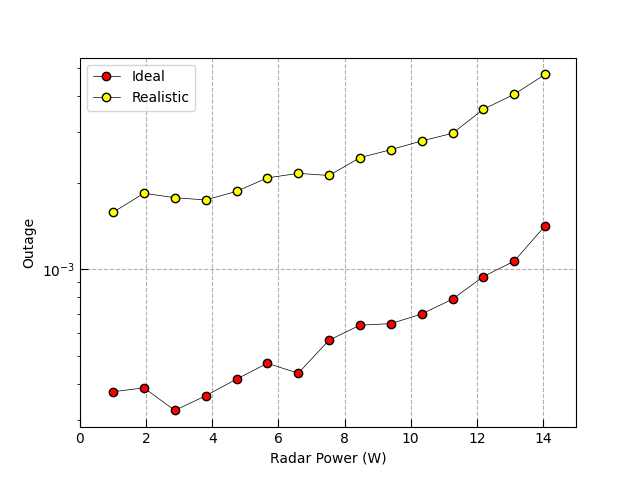
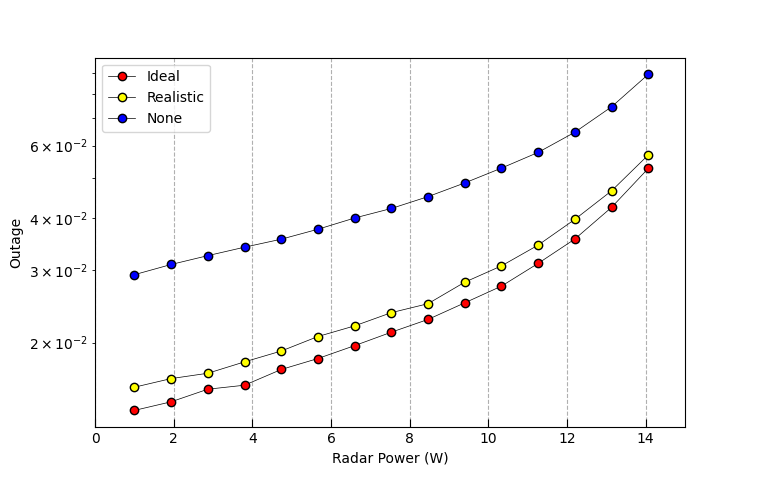
add figures

diff --git a/Modelling/Dist/v2x.py b/Modelling/Dist/v2x.py
@@ -4,7 +4,7 @@ from scipy import constants
 import scipy
 
 # SIM PARAMETERS
-N = 500_000 # Num iterations
+N = 2_000_000 # Num iterations
 L = 1 # Number of links to target
 NUM_CARS = 2 # Total number of cars for radar bounces
 NUM_INTERFERERS = 2 # Total number of interfering cars
@@ -65,8 +65,8 @@ c_Bandwidth = 100_000_000
 # R_r_max = np.pow((sensing_power * Nsr * rAntennaGain * tAntennaGain * target_rcs * s_carrier_w**2) / (np.pow(4*constants.pi, 3)*s_noise_power*radar_snr_th), 0.25)
 # R_c_max = np.sqrt((comms_power * Ncr * c_carrier_w**2 * K)/(np.pow(4*constants.pi, 2) * c_noise_power*comms_snr_th*(K+1)))
 # R_max = min(R_r_max, R_c_max, 150) # 150 m unless otherwise required
-R_min = 30
-R_max = 150
+R_min = 100
+R_max = 200
 dists = np.arange(R_min, R_max, (R_max - R_min) / NUM_POINTS)
 
 # Power variation
